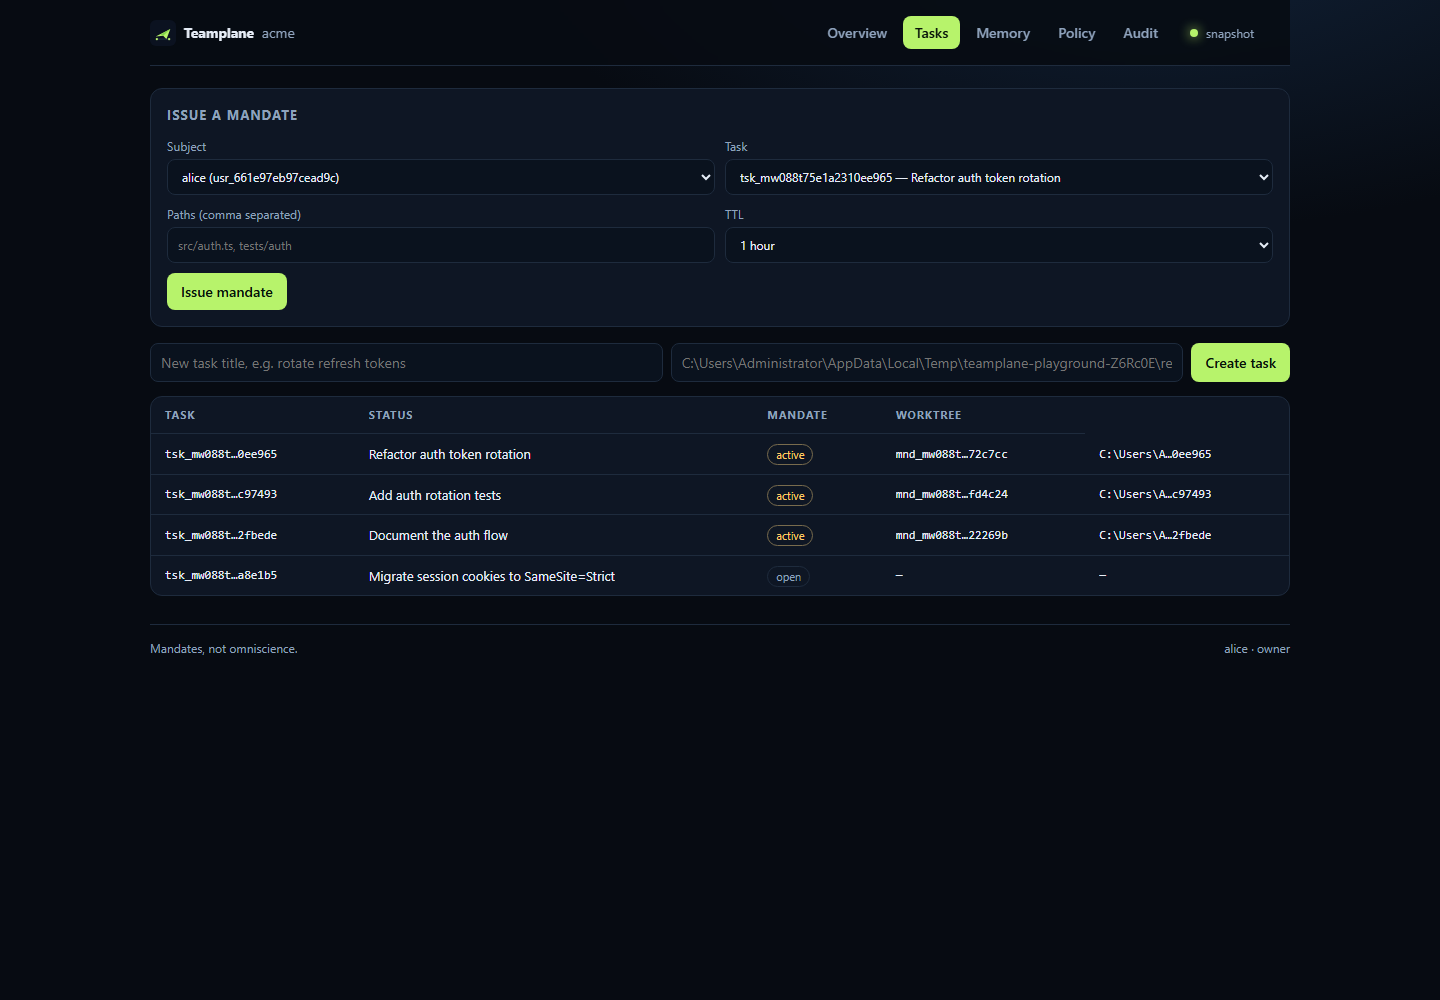
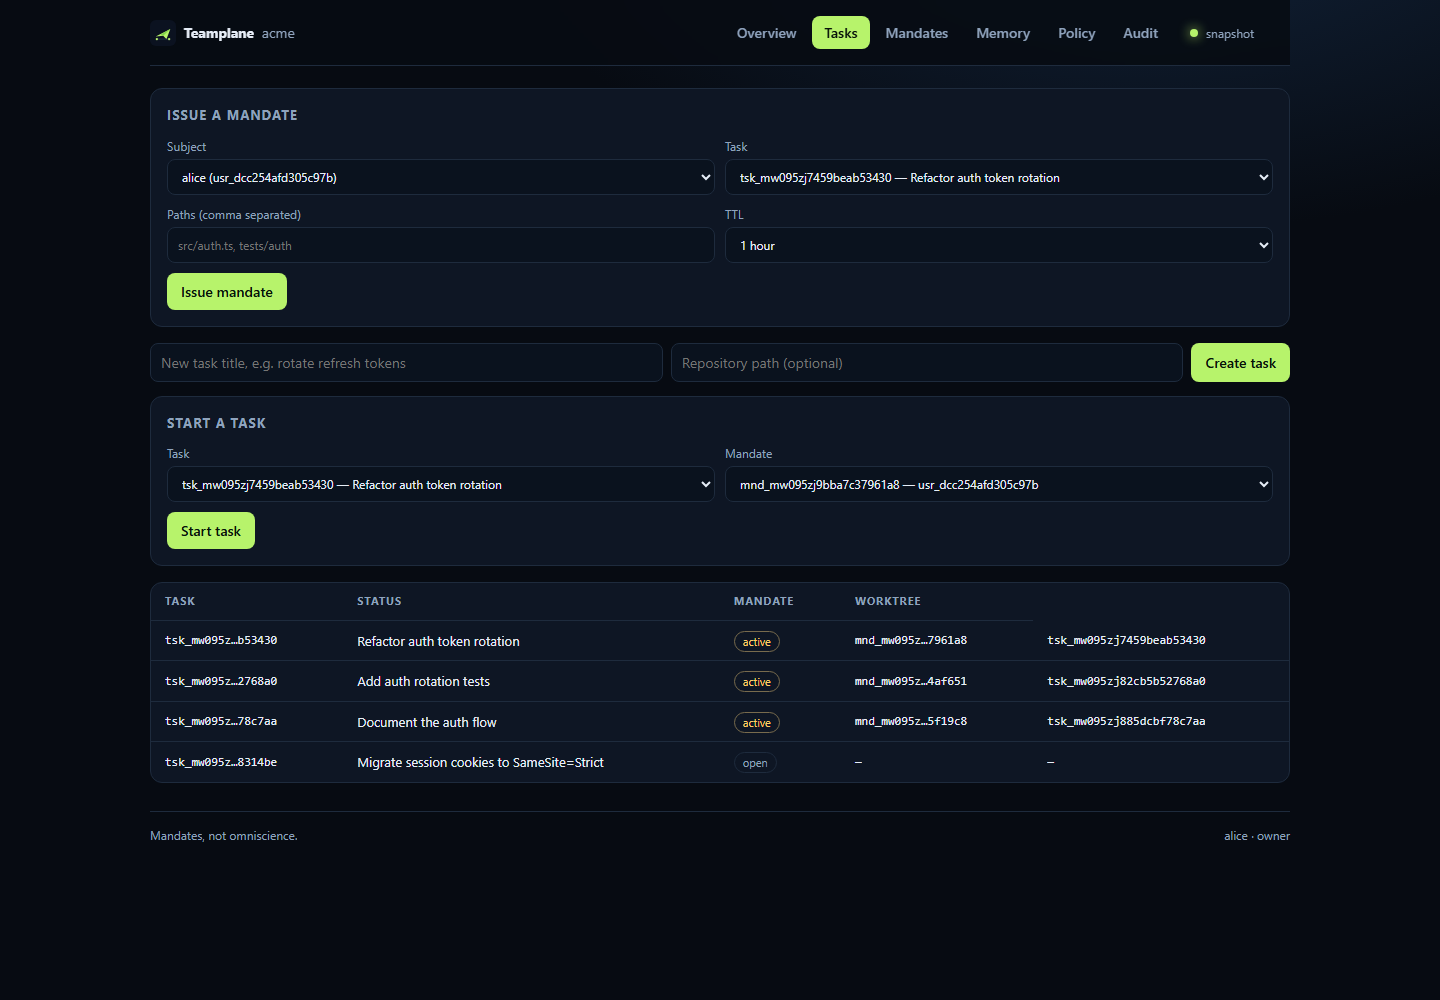
security: scan tracked files and history for secrets in CI

diff --git a/src/cli.ts b/src/cli.ts
@@ -121,7 +121,7 @@ export async function main(argv = process.argv.slice(2)): Promise<number> {
       case 'doctor':
         return cmdDoctor(parsed)
       case 'version':
-        process.stdout.write('teamplane 0.2.7\n')
+        process.stdout.write('teamplane 0.2.8\n')
         return 0
       default:
         process.stderr.write(`Unknown command: ${command}\n\n${usage()}`)
@@ -144,7 +144,7 @@ export async function main(argv = process.argv.slice(2)): Promise<number> {
 }
 
 function usage(): string {
-  return `teamplane 0.2.7 — a deterministic control plane for multi-user agent teams
+  return `teamplane 0.2.8 — a deterministic control plane for multi-user agent teams
 
 Usage: teamplane <command> [options]
 

diff --git a/web/app.js b/web/app.js
@@ -85,7 +85,6 @@ async function refresh() {
     $('stat-events').textContent = String(snapshot.events ?? 0)
     renderTasks(snapshot.tasks ?? [])
     renderApprovals(snapshot.approvals ?? [])
-    if (!$('task-repo').value && snapshot.tasks?.[0]?.repoPath) $('task-repo').placeholder = snapshot.tasks[0].repoPath
 
     const principals = await api('/v1/principals')
     state.principals = principals.principals ?? []

diff --git a/src/mcp/server.ts b/src/mcp/server.ts
@@ -3,7 +3,7 @@ import type { McpApi } from './tools.js'
 import { findTool, TOOLS } from './tools.js'
 
 export const PROTOCOL_VERSION = '2026-07-28'
-export const SERVER_INFO = { name: 'teamplane', version: '0.2.7' }
+export const SERVER_INFO = { name: 'teamplane', version: '0.2.8' }
 
 export interface McpBackendOptions {
   baseUrl: string

diff --git a/README.md b/README.md
@@ -164,7 +164,7 @@ A shared control plane is the same row with `transport: streamable-http` and `ur
 
 ```yaml
 - name: Verify the Teamplane event log
-  uses: JustinSian/Teamplane@v0.2.7
+  uses: JustinSian/Teamplane@v0.2.8
   with:
     control-plane-url: ${{ vars.TEAMPLANE_URL }}
     token: ${{ secrets.TEAMPLANE_TOKEN }}
@@ -222,9 +222,9 @@ Related work that shaped this: Collaborative Memory (ICML'25), MERGEGYM, ScopeGa
 
 ## Status
 
-`0.2.7` — **research preview**, single node, pre-1.0. The event log is O(n) on startup; snapshots mitigate, rotation is on the roadmap. Interfaces may change before `1.0`.
+`0.2.8` — **research preview**, single node, pre-1.0. The event log is O(n) on startup; snapshots mitigate, rotation is on the roadmap. Interfaces may change before `1.0`.
 
-If you build on it, pin a commit and read [SECURITY.md](SECURITY.md) and [STATUS.md](STATUS.md).
+If you build on it, pin a commit and read [SECURITY.md](SECURITY.md) and [STATUS.md](STATUS.md). The repository also runs a dependency-free secret scan in CI: `npm run scan:secrets` and `npm run scan:secrets:history`.
 
 ## License
 

diff --git a/SECURITY.md b/SECURITY.md
@@ -51,3 +51,19 @@ See [docs/threat-model.md](docs/threat-model.md) for T1–T13 and the deployment
 - Install `dsh-teamplane-guard` (or an equivalent host guard) for every writing runtime.
 - Anchor the output of `teamplane audit verify` in CI or a signed release.
 - Review `memory.conflict` events; they are the earliest signal of a poisoned or divided team memory.
+
+## Secret scanning
+
+Two layers:
+
+- **CI**: `.github/workflows/security.yml` runs `node scripts/scan-secrets.mjs` over tracked files and `node scripts/scan-secrets.mjs --history` over every commit. It reports the file, line and pattern name, never the value.
+- **GitHub**: enable **Settings → Code security → Secret scanning** and **Push protection** for the repository. Public repositories get these free; push protection blocks a token before it lands.
+
+Run locally:
+
+```bash
+npm run scan:secrets
+npm run scan:secrets:history
+```
+
+If a secret ever lands: **revoke it first**, then rotate, then remove it from history. Deleting the commit does not un-leak a key that was already public.

diff --git a/PUBLISH.md b/PUBLISH.md
@@ -69,6 +69,7 @@ npm test && npm run demo:ci && npm run mcp:smoke
 
 - [ ] **Settings → Pages**: Source = *GitHub Actions*. The `pages` workflow deploys `site/` on every push to `main`.
 - [ ] **Settings → General → Social preview**: upload `docs/assets/social.png` (1280×640). GitHub does not accept SVG here.
+- [ ] **Settings → Code security**: enable **Secret scanning** and **Push protection** (free for public repositories).
 - [ ] **About**: description from `package.json`, website = the Pages URL, topics: `agents` `multi-agent` `mcp` `deepseek-harness` `authorization` `capability` `coordination` `ai-agents`.
 - [ ] **Actions**: confirm `ci`, `pages` and (after a tag) `release` are green.
 - [ ] **Releases**: publish the existing `v0.1.0` tag as a release, or tag `v0.2.0` after the product-surface changes.

diff --git a/docs/mcp.md b/docs/mcp.md
@@ -44,7 +44,7 @@ Results are JSON text content plus `structuredContent`. A denied action is a too
 
 ```
 → {"jsonrpc":"2.0","id":1,"method":"initialize","params":{"protocolVersion":"2026-07-28"}}
-← {"jsonrpc":"2.0","id":1,"result":{"protocolVersion":"2026-07-28","capabilities":{"tools":{}},"serverInfo":{"name":"teamplane","version":"0.2.7"}}}
+← {"jsonrpc":"2.0","id":1,"result":{"protocolVersion":"2026-07-28","capabilities":{"tools":{}},"serverInfo":{"name":"teamplane","version":"0.2.8"}}}
 
 → {"jsonrpc":"2.0","id":2,"method":"tools/call","params":{"name":"tp_lease_acquire","arguments":{"key":"file:src/auth.ts","task":"tsk_123"}}}
 ← {"jsonrpc":"2.0","id":2,"result":{"content":[{"type":"text","text":"{\"id\":\"les_...\"}"}],"isError":false}}

diff --git a/CHANGELOG.md b/CHANGELOG.md
@@ -1,5 +1,18 @@
 # Changelog
 
+## 0.2.8 — 2026-11-03
+
+### Added
+
+- **Secret scanning in CI**: `.github/workflows/security.yml` runs a dependency-free scanner over tracked files and full git history. It reports file/line/pattern, never the matched value.
+- **Local commands**: `npm run scan:secrets` and `npm run scan:secrets:history`.
+- **Hardened .gitignore**: `.env*`, `*.key`, `*.pem`, `*.p12`, `*.pfx`, `.npmrc`, `.pypirc`, `secrets/`, `id_rsa*`, `token.json`, `credentials.json`.
+- The console no longer prefills a local absolute repository path, and the tasks screenshot was regenerated without it.
+
+### Changed
+
+- Version 0.2.8; tests remain 29; `scan:secrets` and `scan:secrets:history` are clean.
+
 ## 0.2.7 — 2026-11-03
 
 ### Added

diff --git a/STATUS.md b/STATUS.md
@@ -1,6 +1,6 @@
 # Status
 
-**Version:** 0.2.7 · **Date:** 2026-11-03 · **Maturity:** research preview
+**Version:** 0.2.8 · **Date:** 2026-11-03 · **Maturity:** research preview
 
 Teamplane is a working reference implementation of a multi-principal control plane for agent teams. It is not a finished product. This page is the honest matrix: what is shipped, what is partial, what is not built, and what has actually been measured.
 
